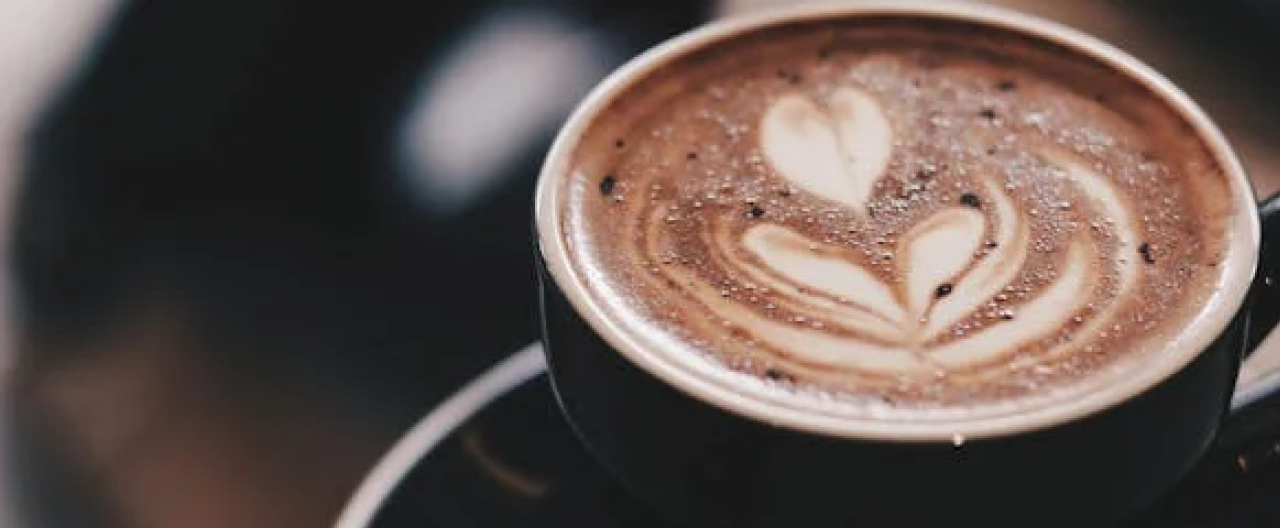
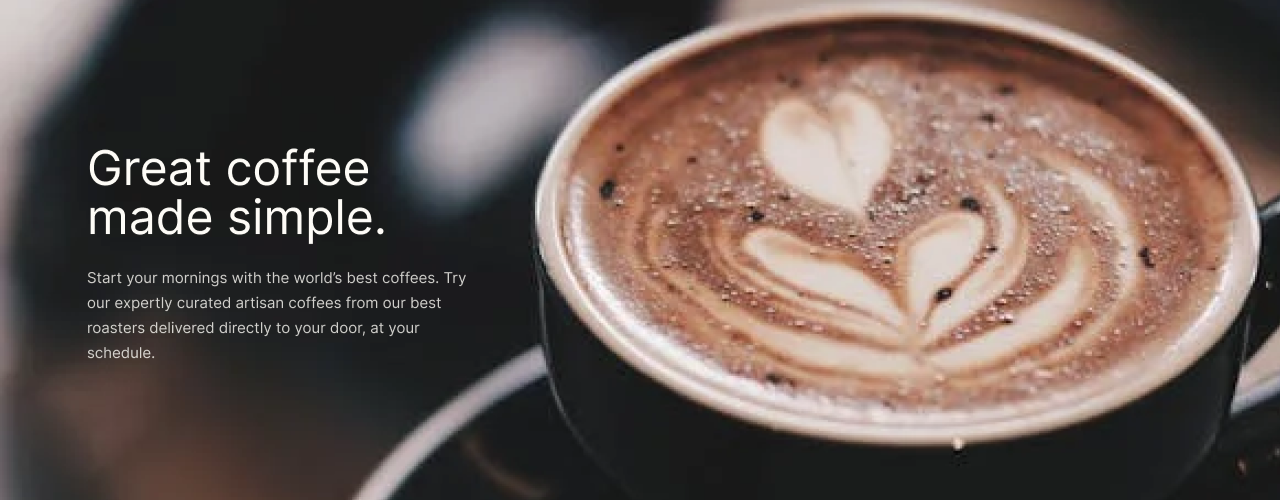
perbaikan tampilan

diff --git a/app/Views/User/index.php b/app/Views/User/index.php
@@ -10,24 +10,12 @@
         <div class="carousel-inner">
             <div class="carousel-item active">
                 <img src="/Asset/banner.png" class="d-block w-100 rounded" alt="...">
-                <div class="carousel-caption d-none d-md-block text-light">
-                    <h5>First slide label</h5>
-                    <p>Some representative placeholder content for the first slide.</p>
-                </div>
             </div>
             <div class="carousel-item">
                 <img src="/Asset/banner.png" class="d-block w-100 rounded" alt="...">
-                <div class="carousel-caption d-none d-md-block text-light">
-                    <h5>Second slide label</h5>
-                    <p>Some representative placeholder content for the second slide.</p>
-                </div>
             </div>
             <div class="carousel-item">
                 <img src="/Asset/banner.png" class="d-block w-100 rounded" alt="...">
-                <div class="carousel-caption d-none d-md-block text-light">
-                    <h5>Third slide label</h5>
-                    <p>Some representative placeholder content for the third slide.</p>
-                </div>
             </div>
         </div>
         <button class="carousel-control-prev" type="button" data-bs-target="#carouselExampleCaptions" data-bs-slide="prev">
@@ -94,7 +82,7 @@
             <p class="fs-7">Loremolorum dolor necessitatibus quasi explicabo est? Labore provident necessitatibus tenetur eaque.</p>
         </div>
         <div class="rekomended-content mb-3">
-            <?php for ($i = 0; $i < 10; $i++) { ?>
+            <?php for ($i = 0; $i < 1; $i++) { ?>
                 <div class="card background-yellow border-0 me-3" style="min-width: 250px; width:250px;">
                     <img src="/Asset/coffee.png" class="card-img-top" alt="...">
                     <div class="card-body position-relative p-2">

diff --git a/app/Views/Auth/auth.php b/app/Views/Auth/auth.php
@@ -19,7 +19,7 @@
   <nav class="navbar navbar-expand-lg navbar-light bg-light">
     <div class="container-fluid mt-1">
       <a class="navbar-brand ms-5" href="/">
-        <img src="/Login/img/logo.png" alt="Logo" loading="lazy" />
+        <img src="/Login/img/logo.png" alt="Logo" loading="lazy"/>
       </a>
       <button class="navbar-toggler" type="button" data-bs-toggle="collapse" data-bs-target="#navbarNav"
         aria-controls="navbarNav" aria-expanded="false" aria-label="Toggle navigation">
@@ -28,16 +28,16 @@
       <div class="collapse navbar-collapse" id="navbarNav">
         <ul class="navbar-nav ms-auto">
           <li class="nav-item me-4">
-            <a class="nav-link active" aria-current="page" href="#HOME">HOME</a>
+            <a class="nav-link active" aria-current="page" href="/">HOME</a>
           </li>
           <li class="nav-item me-4">
-            <a class="nav-link" href="#ABOUTUS">ABOUT US</a>
+            <a class="nav-link" href="/about">ABOUT US</a>
           </li>
           <li class="nav-item me-4">
-            <a class="nav-link" href="#PRODUK">PRODUK</a>
+            <a class="nav-link" href="/product">PRODUK</a>
           </li>
           <li class="nav-item" style="margin-right: 145px;">
-            <a class="nav-link" href="#LOGIN">LOGIN</a>
+            <a class="nav-link" href="/auth">LOGIN</a>
           </li>
         </ul>
       </div>
